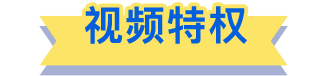
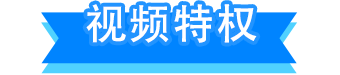
3

diff --git a/css/style1.css b/css/style1.css
@@ -70,42 +70,10 @@ html,body{
     width: 10.95rem;
     height: 3.6rem;
 }
-.main ul li:nth-child(1) span{
-    background: url("../images/lijibanli.png") center no-repeat;
-    background-size: cover;
-}
-.main ul li:nth-child(2) span{
-    background: url("../images/lijibanli2.png") center no-repeat;
-    background-size: cover;
-}
-.main ul li:nth-child(3) span{
-    background: url("../images/lijibanli3.png") center no-repeat;
-    background-size: cover;
-}
-.main ul li:nth-child(4) span{
-    background: url("../images/lijibanli4.png") center no-repeat;
-    background-size: cover;
-}
-.main ul li:nth-child(5) span{
-    background: url("../images/lijibanli5.png") center no-repeat;
-    background-size: cover;
-}
-.main ul li:nth-child(6) span{
-    background: url("../images/lijibanli6.png") center no-repeat;
-    background-size: cover;
-}
-.main ul li:nth-child(7) span{
-    background: url("../images/lijibanli7.png") center no-repeat;
-    background-size: cover;
-}
-.main ul li:nth-child(8) span{
-    background: url("../images/lijibanli8.png") center no-repeat;
-    background-size: cover;
-}
 .spTitle{
     margin: 4.3rem auto 3.35rem;
-    width: 16.1rem;
-    height: 3.8rem;
+    width: 17rem;
+    height: 3.75rem;
     background: url("../images/shipintq.png") center no-repeat;
     background-size: cover;
 }
@@ -551,7 +519,7 @@ html,body{
 }
 .hdgzBox div{
     padding: 0.5rem 1rem 1rem;
-    background-color: #0048aa;
+    background-color: #6fd9ff;
 }
 .hdgzBox div p span{
     font-size: 1.2rem;
